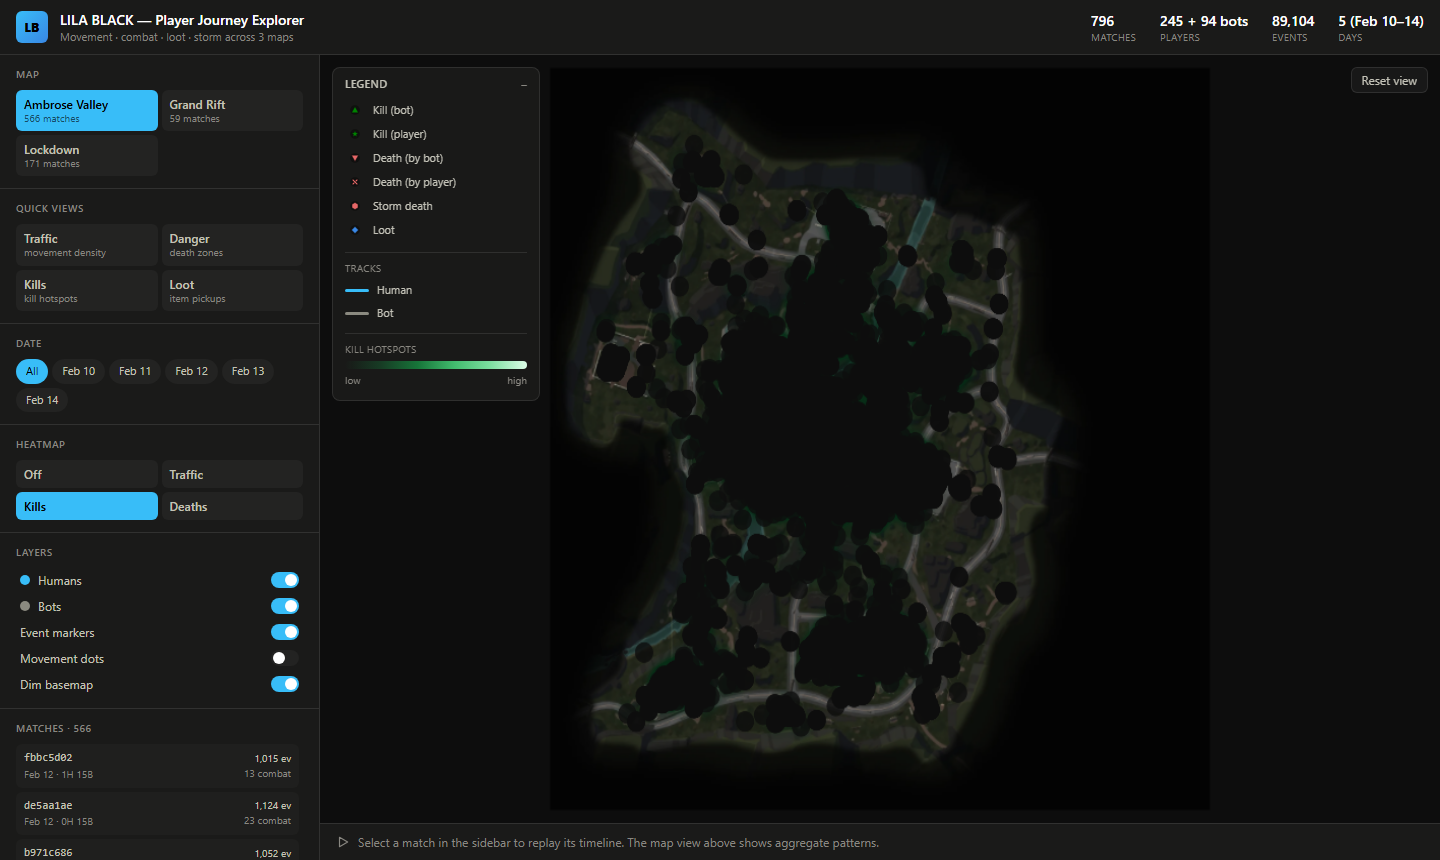
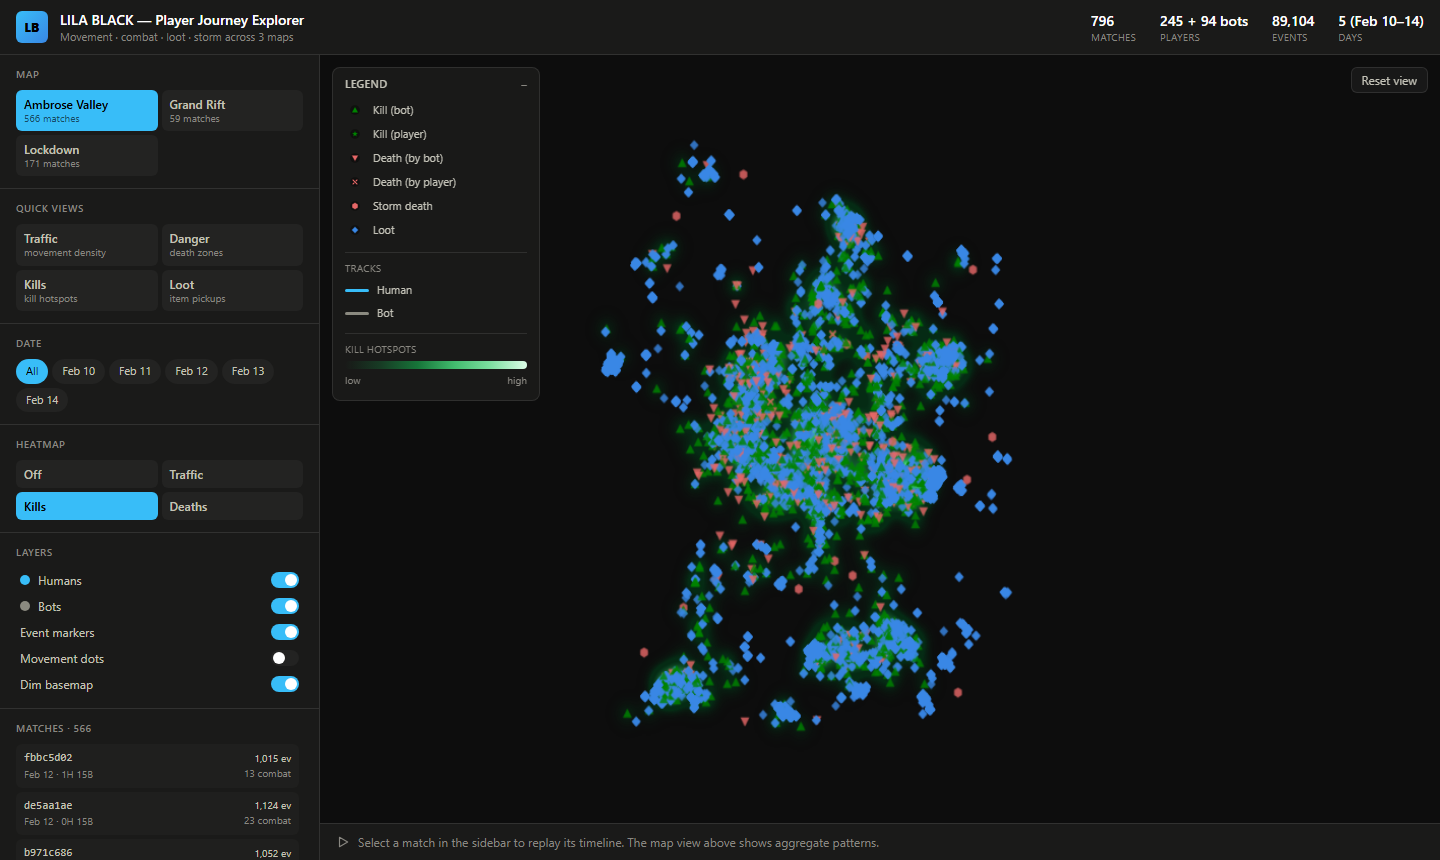
fix: render overview event markers as colored scatter, not black halos
The dark per-marker halo gave nice contrast for a single match, but the
map overview holds ~16k events so 16k halos merged into a black mass that
hid the minimap. Draw the halo only in match view; in the overview render
smaller, slightly translucent colored icons that read as an event scatter.
Refresh README hero screenshot.

Changed region(s): [[0.4062, 0.1512, 0.75, 0.8767]]

diff --git a/src/components/MapCanvas.tsx b/src/components/MapCanvas.tsx
@@ -313,20 +313,25 @@ export default function MapCanvas() {
     )
   }
 
-  // event markers (overview or match) — dark halo + tinted icon
+  // event markers (overview or match) — tinted icons.
+  // Match view is sparse → add a dark halo for contrast. Overview holds ~16k
+  // events, so a per-marker halo would blot out the map: draw smaller,
+  // slightly translucent icons that read as an event scatter instead.
   const markerData = matchView ? (layers.events ? matchView.events : []) : overview && layers.events ? overview.events : []
   if (markerData.length) {
-    deckLayers.push(
-      new ScatterplotLayer({
-        id: 'marker-halo',
-        data: markerData,
-        getPosition: (d: any) => d.position,
-        getFillColor: [13, 13, 13, 200],
-        getRadius: 9,
-        radiusUnits: 'pixels',
-        radiusMinPixels: 7,
-      }),
-    )
+    if (matchView) {
+      deckLayers.push(
+        new ScatterplotLayer({
+          id: 'marker-halo',
+          data: markerData,
+          getPosition: (d: any) => d.position,
+          getFillColor: [13, 13, 13, 200],
+          getRadius: 9,
+          radiusUnits: 'pixels',
+          radiusMinPixels: 7,
+        }),
+      )
+    }
     deckLayers.push(
       new IconLayer({
         id: 'marker-icons',
@@ -336,10 +341,10 @@ export default function MapCanvas() {
         iconMapping: icons.mapping as any,
         getIcon: (d: any) => EVENT_STYLE[d.name as keyof typeof EVENT_STYLE].icon,
         getPosition: (d: any) => d.position,
-        getColor: (d: any) => [...d.color, 255] as any,
-        getSize: 20,
+        getColor: (d: any) => [...d.color, matchView ? 255 : 210] as any,
+        getSize: matchView ? 20 : 13,
         sizeUnits: 'pixels',
-        sizeMinPixels: 14,
+        sizeMinPixels: matchView ? 14 : 9,
       }),
     )
   }
